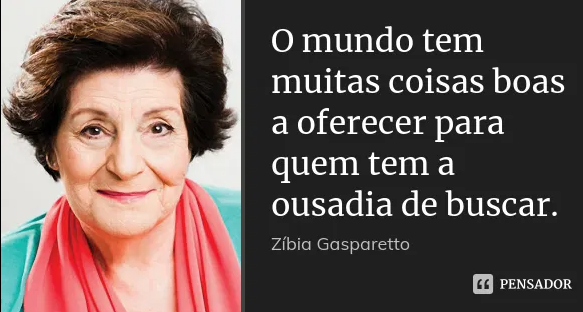
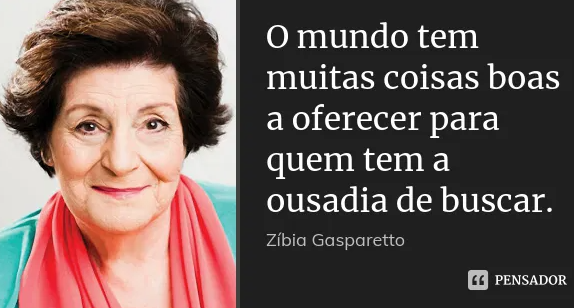
Atualizando imagens da pagina O Sentido da Vida 4

diff --git a/Sentido_vida.html b/Sentido_vida.html
@@ -37,7 +37,7 @@
 	left:11px;
 	top:39px;
 	width:777px;
-	height:6570px;
+	height:6650px;
 	z-index:3;
 	font-family: Arial, Helvetica, sans-serif;
 	font-size: 16px;
@@ -197,48 +197,32 @@ function MM_swapImage() { //v3.0
     <td><img src="imagens/SentidoVida/imagem6.png" width="322" height="217" alt="" /></td>
   </tr>
 </table>
-<h3>Lorem Ipsum</h3>
   <table align="center">
     <tr>
-      <td><img src="imagens/SentidoVida/img12.png" width="390" height="196" alt="Einstein. A vida é como andar de biblicleta" /></td>
-      <td><img src="imagens/SentidoVida/img13.png" width="390" height="196" alt="Zíbia Gasparetto. A vida tem muitas coisas boas a oferecer." /></td>
+      <td><img src="imagens/SentidoVida/img12.png" width="390" height="280" alt="Einstein. A vida é como andar de biblicleta" /></td>
+      <td><img src="imagens/SentidoVida/img13.png" width="390" height="280" alt="Zíbia Gasparetto. A vida tem muitas coisas boas a oferecer." /></td>
     </tr>
   </table>
-  <p>Sed ac elit eget lorem viverra luctus quis vel libero. Donec sed urna eget velit euismod condimentum in id arcu. Donec nec efficitur nisi.</p>
-<p>Aliquam aliquam eu dui quis porttitor. Nullam mauris purus, venenatis congue euismod viverra, varius ac nunc. Phasellus fringilla ipsum nec porta sollicitudin. Quisque lectus orci, lobortis vitae sem ut, feugiat tristique turpis. Nullam vulputate mauris neque, non vulputate massa tristique et. Cras eget mi et tellus elementum suscipit ac eu leo. Duis vitae quam vulputate, posuere ex in, hendrerit elit. Phasellus efficitur iaculis urna, a posuere ex tincidunt eget. </p>
-  <h3>Lorem Ipsum</h3>
-  <p>Maecenas nulla est, suscipit sed condimentum sed, viverra eget lacus. Aliquam in libero leo. Aenean eget odio consequat, vestibulum ligula at, accumsan mauris. Maecenas ornare mi eu libero faucibus consectetur. Lorem ipsum dolor sit amet, consectetur adipiscing elit.</p>
-  <h3>Lorem Ipsum</h3>
-  <p>Nullam viverra maximus odio vitae tincidunt. Aenean at purus orci. Sed scelerisque dui sed enim maximus lacinia. Duis pulvinar, nisl vel facilisis molestie, neque velit accumsan enim, ut pulvinar diam eros in tortor. Fusce est dui, posuere sed velit et, suscipit consectetur metus. Etiam ornare nisi non lobortis volutpat. </p>
-  <p><img src="imagens/SentidoVida/imagem11.png" width="140" height="129" align="left" alt="Página em construção" />Etiam lacinia erat sit amet velit lacinia, ac volutpat nunc faucibus. Curabitur vehicula egestas ultricies. Curabitur mollis nisl lacus, eu mattis sapien sollicitudin a. In ex eros, interdum et justo ac, suscipit mattis enim. Fusce luctus, quam in aliquam tempor, arcu arcu consequat sem, at accumsan ante sapien ultrices nisi. In turpis risus, viverra at aliquam nec, luctus et risus. Integer varius magna ac enim fringilla sodales. Duis libero lorem, molestie rutrum dolor at, eleifend iaculis sem. Vivamus felis nisi, auctor vitae ullamcorper eget, tempor sit amet metus. Aenean in mi tellus.</p>
-  <table width="769" border="0">
+  <table align="center">
     <tr>
-      <td width="183"><img src="imagens/SentidoVida/imagem12.png" width="182" height="150" alt="Página em construção" /></td>
-      <td width="576"><p><strong>Lorem Ipsum/strong></p>
-        <p> Lorem ipsum dolor sit amet, consectetur adipiscing elit. Nunc massa diam, faucibus pulvinar tempor ac, cursus sit amet ex. Morbi egestas volutpat ex id gravida. Nunc felis ante, tempus quis laoreet in, euismod eget lorem. </p></td>
-    </tr>
-    <tr>
-      <td><img src="imagens/SentidoVida/imagem13.png" width="182" height="150" alt="Página em construção" /></td>
-      <td><p><strong>Lorem Ipsum</strong></p>
-        <p>Quisque ut tempus leo. Donec iaculis ipsum enim, vitae gravida turpis laoreet eu. Praesent molestie imperdiet ligula varius ornare. Etiam dapibus et nulla ut vestibulum. Nam varius odio urna, id blandit orci malesuada id. </p></td>
-    </tr>
-    <tr>
-      <td><img src="imagens/SentidoVida/imagem14.png" width="182" height="150" alt="Página em construção" /></td>
-      <td><p><strong>Lorem Ipsum</strong></p>
-        <p>Curabitur posuere leo elit, a rhoncus risus tincidunt a. Cras luctus vel nibh sed bibendum.</p></td>
-    </tr>
-    <tr>
-      <td><img src="imagens/SentidoVida/imagem15.png" width="182" height="150" alt="Página em construção" /></td>
-      <td><p><strong>Lorem Ipsum</strong></p>
-        <p>Fusce est dui, posuere sed velit et, suscipit consectetur metus.</p></td>
+      <td><img src="imagens/SentidoVida/img14.png" width="390" height="240"  alt=""></td>
+      <td><img src="imagens/SentidoVida/img15.png" width="390" height="240"  alt=""></td>
     </tr>
   </table>
-  <p>&nbsp;</p>
-  <h3>Lorem Ipsum</h3>
-  <p><strong>Nam tincidunt felis a fermentum molestie. Vivamus condimentum, orci et cursus pellentesque, sem libero placerat velit, vitae ultrices leo nibh eget magna. </strong><br /></p>
-
-  <p><strong><img src="imagens/SentidoVida/imagem16.png" width="289" height="223" align="left" alt="Página em construção" />Lorem Ipsum</strong></p>
-<p>Vestibulum ante ipsum primis in faucibus orci luctus et ultrices posuere cubilia curae; Duis egestas a est aliquet volutpat.</p>
+    <table align="center">
+    <tr>
+      <td><img src="imagens/SentidoVida/img16.png" width="340" height="240"  alt=""></td>
+      <td><img src="imagens/SentidoVida/img17.png" width="440" height="240"  alt=""></td>
+    </tr>
+  </table>
+  <table align="center">
+      <tr>
+        <td><img src="imagens/SentidoVida/img18.png" width="250" height="250" alt=""></td>
+        <td><img src="imagens/SentidoVida/img19.png" width="270" height="250" alt=""></td>
+        <td><img src="imagens/SentidoVida/img20.png" width="250" height="250" alt=""></td>
+      </tr>  
+  </table>
+  
  
   <!-- <div id="video"></div> -->
   <!--<div id="video2"><iframe width="480" height="360" src="http://www." frameborder="0" allowfullscreen></iframe></div> -->
